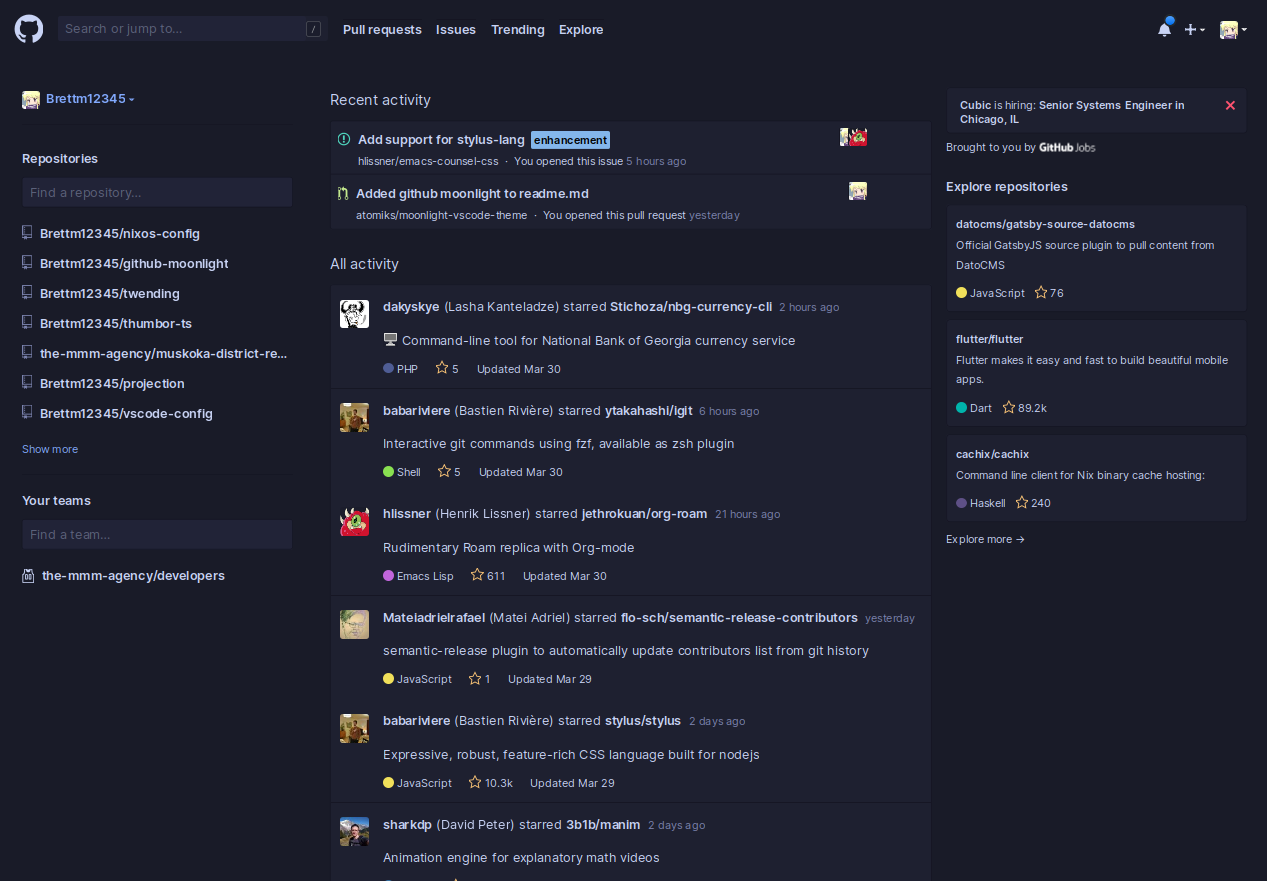
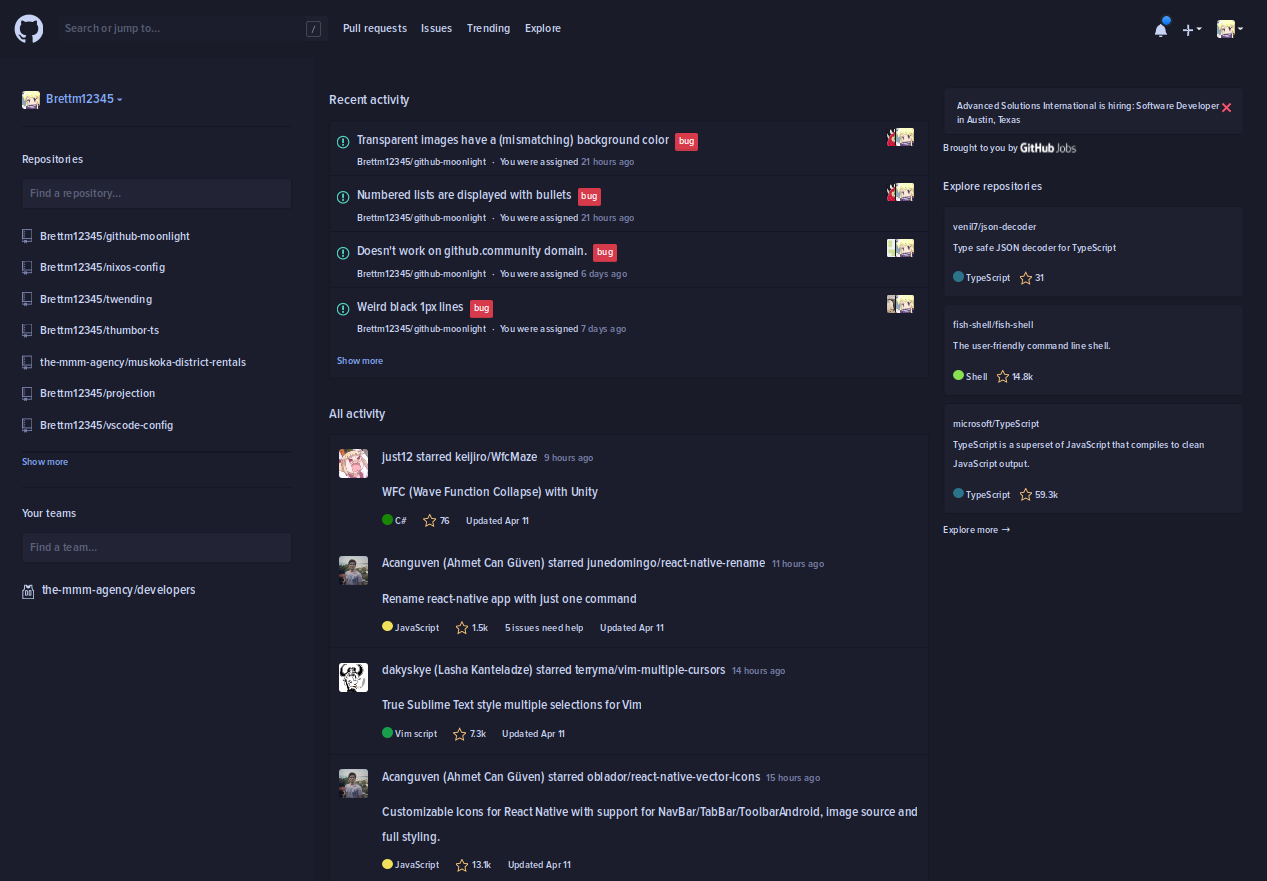
Update dashboard

diff --git a/github.user.css b/github.user.css
@@ -228,7 +228,7 @@ regexp('https?://((developer|gist).)?github.com/.*') {
   .summary-stats li > .num,
   .summary-stats li > a,
   .js-selected-navigation-item.subnav-item,
-  .js-issue-row,
+  .js-selected-navigation-item .js-issue-row,
   .ScreenshotCarousel-navitem,
   .notifications-list-item:hover .notification-list-item-actions .btn,
   .notifications-list-item:focus .notification-list-item-actions .btn,
@@ -1108,6 +1108,9 @@ regexp('https?://((developer|gist).)?github.com/.*') {
     border-color: var(--base-1) !important;
     background-color: var(--base-6) !important;
   }
+  .dashboard :not(code) .Box {
+    background-color: var(--base-3) !important;
+  }
   .dashboard .ajax-pagination-form {
     border: none !important;
   }
@@ -1116,19 +1119,18 @@ regexp('https?://((developer|gist).)?github.com/.*') {
     border-top: 1px solid var(--base-1) !important;
   }
   .dashboard .js-all-activity-header + div {
-    border: 1px solid var(--base-1) !important;
-    border-radius: 6px !important;
+    border-color: var(--base-1) !important;
+    background-color: var(--base-2) !important;
+  }
+  .dashboard .js-all-activity-header + div .Box {
+    background-color: var(--base-3) !important;
   }
   .dashboard .js-all-activity-header + div > div:last-of-type > .body > .border-bottom {
     border-bottom: none !important;
   }
-  .dashboard .js-all-activity-header + div > .Box {
-    background-color: var(--base-5) !important;
-    border-radius: 6px !important;
-  }
   .dashboard-notice {
     border: 1px solid var(--base-1) !important;
-    background-color: var(--base-5) !important;
+    background-color: var(--base-2) !important;
   }
   .dashboard-notice h2 {
     color: var(--text-primary) !important;
@@ -1145,7 +1147,7 @@ regexp('https?://((developer|gist).)?github.com/.*') {
   .repo-list,
   .repo-list-item {
     border-color: var(--base-1) !important;
-    background-color: var(--base-4) !important;
+    background-color: var(--base-2) !important;
   }
   .mini-repo-list-item {
     border-top: 1px solid var(--base-1) !important;
@@ -1161,12 +1163,21 @@ regexp('https?://((developer|gist).)?github.com/.*') {
     background-color: var(--base-2) !important;
   }
   .content.p-4.text-center.rounded-1.border.border-gray-light {
-    background-color: var(--base-4) !important;
+    background-color: var(--base-2) !important;
   }
   .application-main > .flex-wrap {
     background-color: transparent !important;
   }
-  .application-main main div.border-bottom.border-gray {
+  .github-jobs-logo strong {
+    filter: invert(1);
+  }
+  .news .Details button,
+  .summary-stats li a,
+  .pagination a,
+  .SideNav-item {
+    transition: background-color, color 300ms cubic-bezier(0.645, 0.045, 0.355, 1) !important;
+  }
+  .news .Details button:hover {
     background-color: var(--base-4) !important;
   }
   .DashedConnection::before {
@@ -1713,11 +1724,6 @@ regexp('https?://((developer|gist).)?github.com/.*') {
     border-color: var(--base-1) !important;
     background-color: var(--base-4) !important;
   }
-  .summary-stats li a,
-  .pagination a,
-  .SideNav-item {
-    transition: background-color, color 300ms cubic-bezier(0.645, 0.045, 0.355, 1) !important;
-  }
   .summary-stats li:hover,
   .summary-stats li:focus,
   .summary-stats li:hover > .num,
@@ -1757,12 +1763,15 @@ regexp('https?://((developer|gist).)?github.com/.*') {
   .issues-reset-query-icon {
     background-color: var(--base-7) !important;
   }
+  .js-selected-navigation-item.Header-link {
+    border-top: none !important;
+  }
   .js-selected-navigation-item.subnav-item.Box-row--focus-gray,
-  .js-issue-row.Box-row--focus-gray {
+  .js-selected-navigation-item .js-issue-row.Box-row--focus-gray {
     background-color: var(--base-4) !important;
   }
   .js-selected-navigation-item.subnav-item.Box-row--focus-gray:hover,
-  .js-issue-row.Box-row--focus-gray:hover {
+  .js-selected-navigation-item .js-issue-row.Box-row--focus-gray:hover {
     background-color: var(--base-5) !important;
   }
   .pinned-issue-item {
@@ -2263,14 +2272,25 @@ regexp('https?://((developer|gist).)?github.com/.*') {
   }
   .footer,
   .site-footer {
-    border-top: 1px solid var(--base-1) !important;
+    border-top-color: var(--base-1) !important;
   }
-  .ajax-pagination-form:not(.js-more-repos-form) button {
+  .ajax-pagination-form.js-more-repos-form button {
+    background-color: var(--base-3) !important;
+    box-shadow: inset 0 1px 0 var(--base-1) !important;
+  }
+  .ajax-pagination-form:not(.js-more-repos-form) .ajax-pagination-btn {
+    color: var(--text-faded) !important;
     border-color: var(--base-1) !important;
     background-color: var(--base-4) !important;
   }
-  .ajax-pagination-btn {
+  .ajax-pagination-form:not(.js-more-repos-form) .ajax-pagination-btn,
+  .gitako-side-bar .gitako-side-bar-body .gitako-side-bar-content .file-explorer .node-item {
+    transition: color, background-color 300ms cubic-bezier(0.645, 0.045, 0.355, 1) !important;
+  }
+  .ajax-pagination-form:not(.js-more-repos-form) .ajax-pagination-btn:hover,
+  .ajax-pagination-form:not(.js-more-repos-form) .ajax-pagination-btn:focus {
     color: var(--blue) !important;
+    background-color: var(--base-6) !important;
   }
   .pagination a {
     color: var(--text-primary) !important;
@@ -2302,10 +2322,6 @@ regexp('https?://((developer|gist).)?github.com/.*') {
   .pagination-loader-container {
     background-image: none !important;
     background-color: var(--base-4) !important;
-  }
-  .more-repos {
-    background-color: var(--base-4) !important;
-    box-shadow: inset 0 1px 0 var(--base-1) !important;
   }
   .aa-popup h1 {
     border-bottom: 1px solid var(--base-1) !important;
@@ -2453,9 +2469,6 @@ regexp('https?://((developer|gist).)?github.com/.*') {
   .gitako-side-bar .gitako-side-bar-body .octicon:hover,
   .gitako-side-bar .gitako-side-bar-body .octicon:focus {
     color: var(--blue) !important;
-  }
-  .gitako-side-bar .gitako-side-bar-body .gitako-side-bar-content .file-explorer .node-item {
-    transition: color, background-color 300ms cubic-bezier(0.645, 0.045, 0.355, 1) !important;
   }
   .gitako-side-bar .gitako-side-bar-body .gitako-side-bar-content .file-explorer .node-item .octicon {
     color: var(--indigo) !important;
@@ -2609,19 +2622,18 @@ regexp('https?://((developer|gist).)?github.com/.*') {
     border-color: var(--base-1) !important;
     background-color: var(--base-3) !important;
   }
-  .dashboard .js-all-activity-header + div {
+  .rgh-remove-diff-signs .dashboard .js-all-activity-header + div {
     border-color: var(--base-1) !important;
-    background-color: var(--base-4) !important;
+    background-color: var(--base-3) !important;
   }
-  .dashboard .flex-items-baseline .f6.mt-2 {
+  .rgh-remove-diff-signs .dashboard .js-all-activity-header + div .Box {
+    background-color: transparent !important;
+  }
+  .rgh-remove-diff-signs .dashboard .flex-items-baseline .f6.mt-2 {
     opacity: 1 !important;
   }
   .rgh-collaborator {
     border: 1px solid var(--base-1) !important;
-  }
-  .js-more-repos-form.ajax-pagination-form button {
-    color: var(--blue) !important;
-    background-color: var(--base-2) !important;
   }
   button.reaction-summary-item {
     border-color: var(--base-1) !important;
